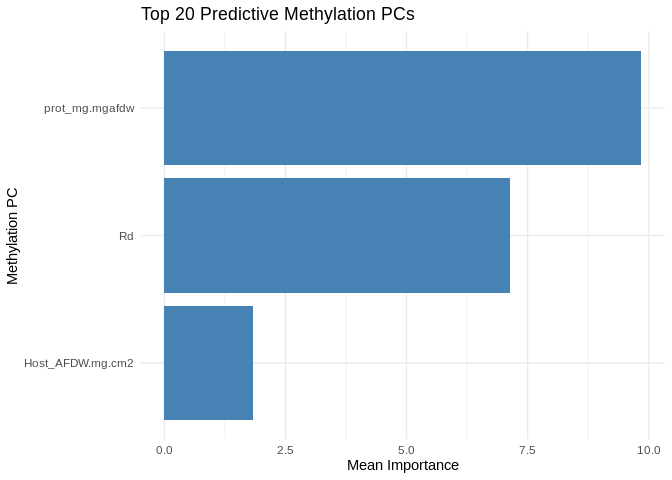
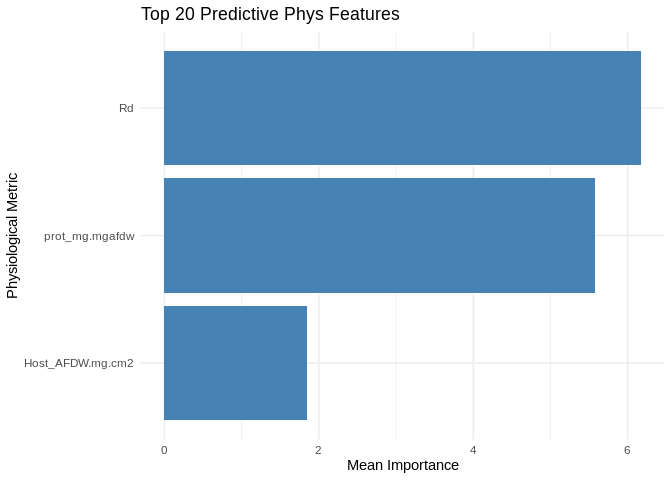
correct some plot titles/axis labels

diff --git a/D-Apul/code/22-Apul-miRNA-mRNA-machine-learning.md b/D-Apul/code/22-Apul-miRNA-mRNA-machine-learning.md
@@ -23,7 +23,7 @@ Kathleen Durkin
     Combine counts data</a>
 - <a href="#3-feature-selection" id="toc-3-feature-selection">3 Feature
   selection</a>
-- <a href="#4-the-lm" id="toc-4-the-lm">4 The LM</a>
+- <a href="#4-the-model" id="toc-4-the-model">4 The model</a>
 - <a href="#5-results" id="toc-5-results">5 Results</a>
 
 I’d like to see whether phenotype can predict gene and/or miRNA
@@ -1010,10 +1010,9 @@ phys_selection <- phys %>% select(Host_AFDW.mg.cm2, prot_mg.mgafdw, Rd)
 phys_selection <- phys_selection[rownames(merged_pcs),]
 ```
 
-# 4 The LM
+# 4 The model
 
-Train elastic models to predict gene expression PCs from methylation
-PCs.
+Train elastic models to predict gene expression PCs from phys data.
 
 ``` r
 train_models <- function(response_pcs, predictor_pcs) {
@@ -1021,7 +1020,7 @@ train_models <- function(response_pcs, predictor_pcs) {
   
   for (pc in colnames(response_pcs)) {
     y <- response_pcs[[pc]]  # Gene expression PC
-    X <- as.matrix(predictor_pcs)  # Methylation PCs as predictors
+    X <- as.matrix(predictor_pcs)  # Phys as predictors
     
     # Train elastic net model (alpha = 0.5 for mix of LASSO & Ridge)
     model <- cv.glmnet(X, y, alpha = 0.5)
@@ -1032,7 +1031,7 @@ train_models <- function(response_pcs, predictor_pcs) {
   return(models)
 }
 
-# Train models predicting gene expression PCs from methylation PCs
+# Train models predicting gene expression PCs from phys data
 models <- train_models(merged_pcs, phys_selection)
 ```
 
@@ -1059,15 +1058,15 @@ get_feature_importance <- function(models) {
 }
 
 feature_importance <- get_feature_importance(models)
-head(feature_importance, 20)  # Top 20 predictive methylation PCs
+head(feature_importance, 20)  # Top predictive phys features
 ```
 
     ## # A tibble: 3 × 2
     ##   Feature          MeanImportance
     ##   <chr>                     <dbl>
-    ## 1 prot_mg.mgafdw             9.84
-    ## 2 Rd                         7.14
-    ## 3 Host_AFDW.mg.cm2           1.83
+    ## 1 Rd                         6.17
+    ## 2 prot_mg.mgafdw             5.57
+    ## 3 Host_AFDW.mg.cm2           1.84
 
 Evaluate performance.
 
@@ -1094,14 +1093,14 @@ summary(performance_results$R2)
 ```
 
     ##    Min. 1st Qu.  Median    Mean 3rd Qu.    Max.    NA's 
-    ## 0.03904 0.06835 0.09628 0.10027 0.12634 0.17437      18
+    ## 0.06090 0.08104 0.10599 0.10721 0.12691 0.15641      21
 
 # 5 Results
 
 Plot results.
 
 ``` r
-# Select top 20 predictive methylation PCs
+# Select top 20 predictive phys features
 top_features <- feature_importance %>% top_n(20, MeanImportance)
 
 # Plot
@@ -1109,8 +1108,8 @@ ggplot(top_features, aes(x = reorder(Feature, MeanImportance), y = MeanImportanc
   geom_bar(stat = "identity", fill = "steelblue") +
   coord_flip() +  # Flip for readability
   theme_minimal() +
-  labs(title = "Top 20 Predictive Methylation PCs",
-       x = "Methylation PC",
+  labs(title = "Top 20 Predictive Phys Features",
+       x = "Physiological Metric",
        y = "Mean Importance")
 ```
 
@@ -1127,7 +1126,7 @@ ggplot(performance_results, aes(x = PC, y = R2)) +
   theme(axis.text.x = element_text(angle = 45, hjust = 1))  # Rotate labels
 ```
 
-    ## Warning: Removed 18 rows containing missing values or values outside the scale range
+    ## Warning: Removed 21 rows containing missing values or values outside the scale range
     ## (`geom_point()`).
 
 ![](22-Apul-miRNA-mRNA-machine-learning_files/figure-gfm/unnamed-chunk-23-1.png)<!-- -->
@@ -1139,14 +1138,8 @@ predictors
 View components associated with gene/miRNA PCs
 
 ``` r
-# Get the PCA rotation (loadings) matrix from the original WGBS PCA
+# Get the PCA rotation (loadings) matrix from the original gene/miRNA PCA
 merged_loadings <- pca_merged$rotation  # Each column corresponds to a PC
-
-# # Identify the top predictive PCs (from feature importance)
-# top_predictive_pcs <- feature_importance$Feature[1:5]  # Select top 5 most predictive PCs
-# 
-# # Extract the loadings for those PCs
-# top_loadings <- wgbs_loadings[, top_predictive_pcs, drop = FALSE]
 
 # Convert to data frame and reshape for plotting
 merged_loadings_df <- as.data.frame(merged_loadings) %>%
